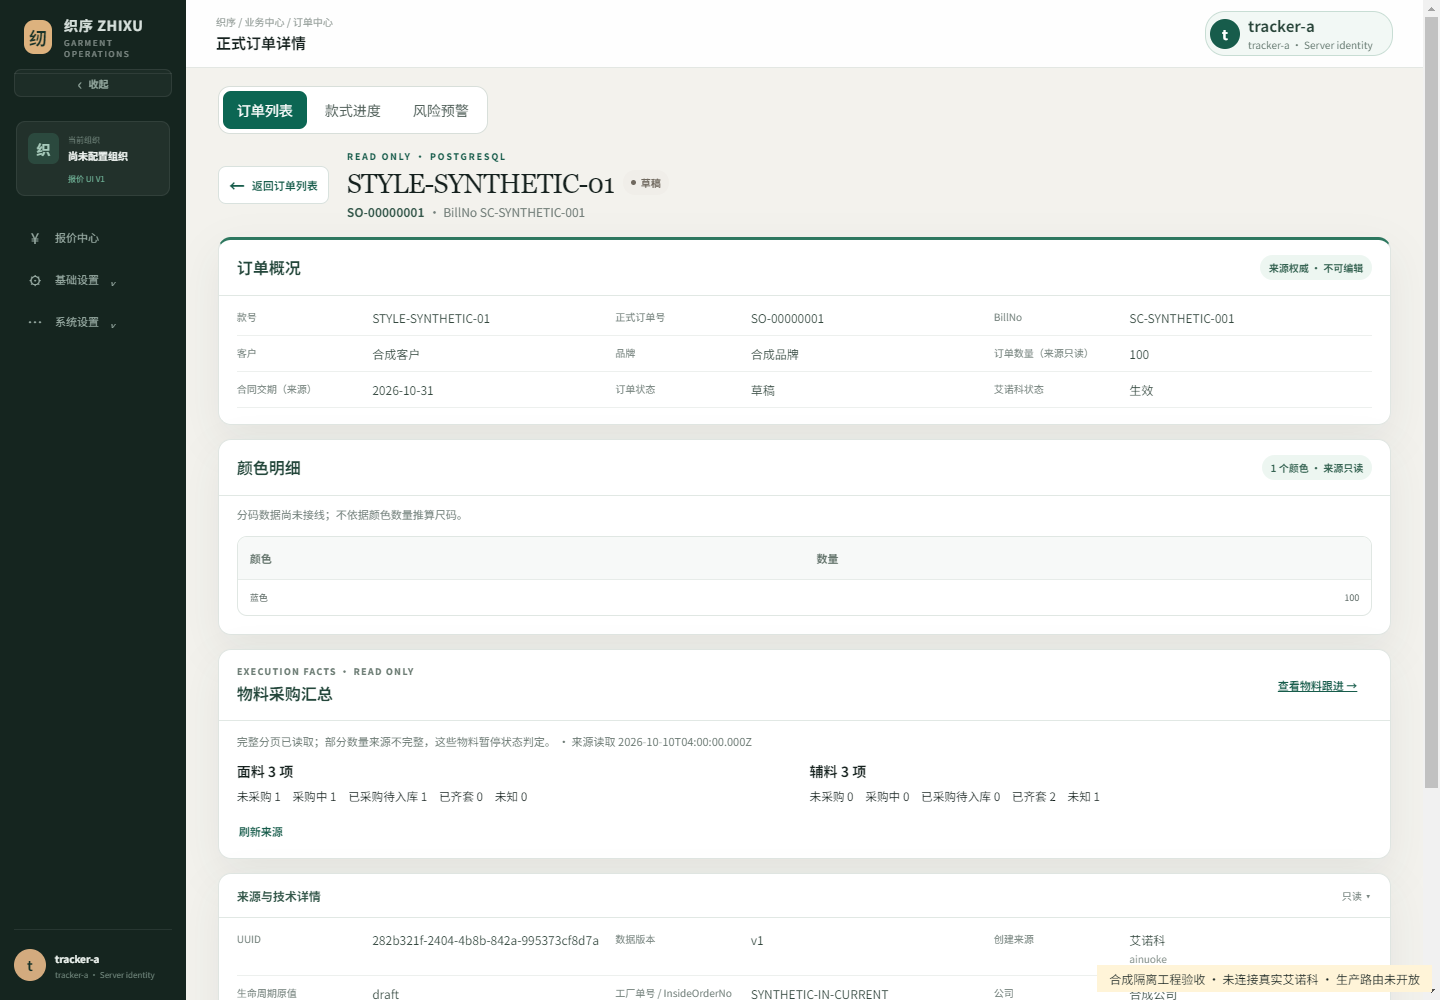
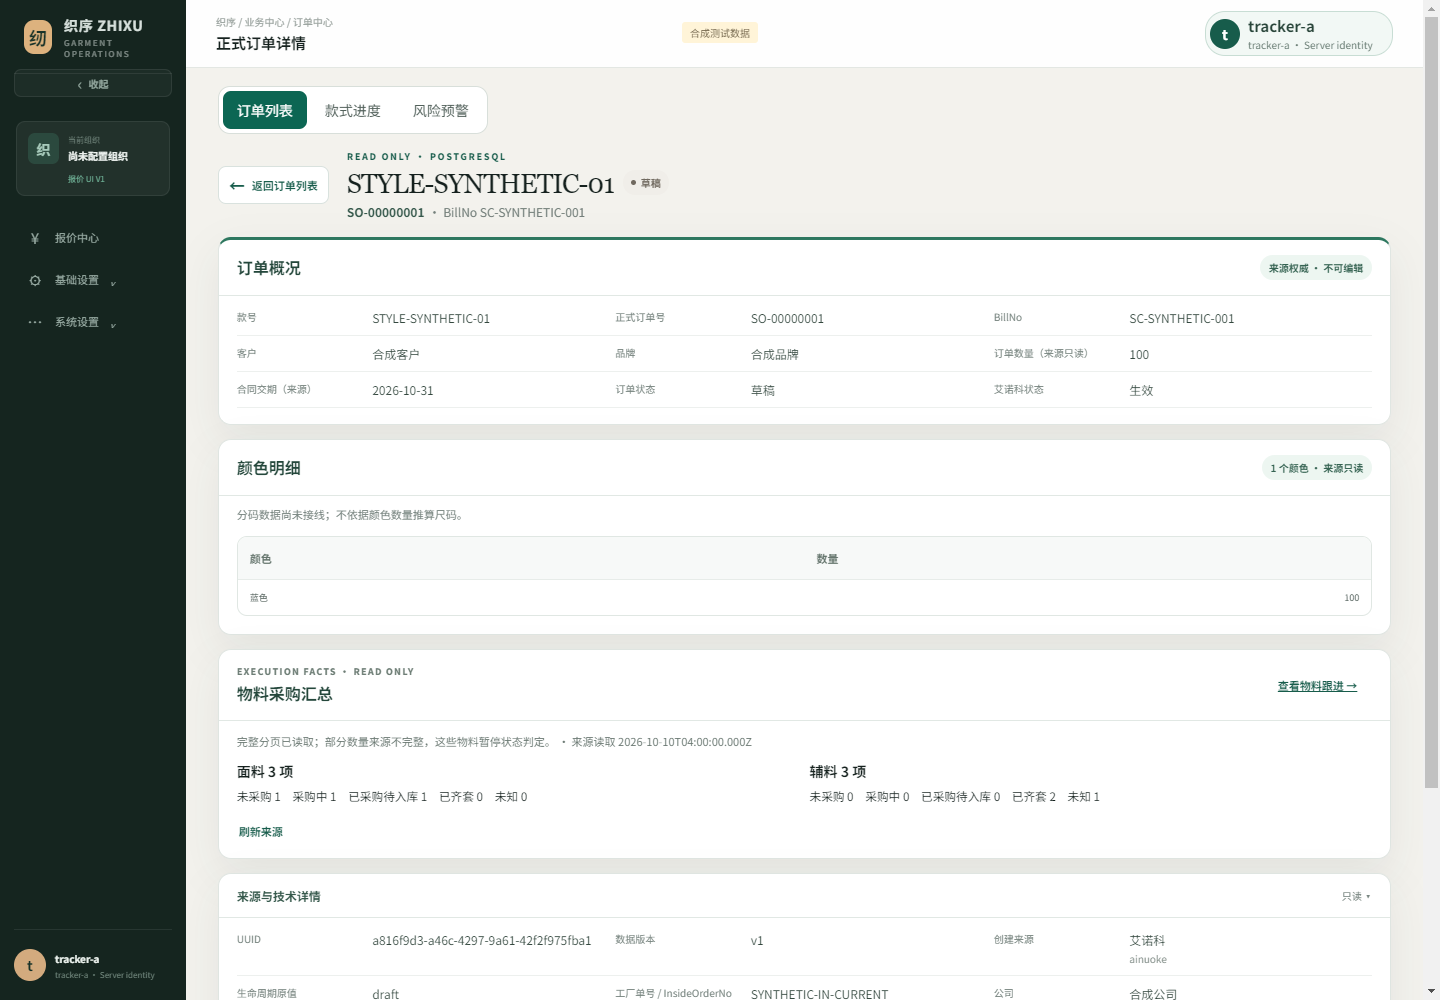
fix(order): align readonly Control Tower and verify responsive display

Changed region(s): [[0.75, 0.961, 1.0, 0.992], [0.25, 0.93, 0.4062, 0.961], [0.4688, 0.0, 0.5312, 0.062]]

diff --git a/features/style-progress/components/style-progress-server-page.tsx b/features/style-progress/components/style-progress-server-page.tsx
@@ -8,7 +8,7 @@ import { ReadOnlyMaterialControlTower } from './material-control-tower-read-only
 import { OrderCenterNavigation } from './order-center-navigation';
 function MaterialBody({id}:{id:string}) {
   const state=useOrderMaterial(id);const route=orderMaterialNavigation(id)!;
-  return <><PageHeader eyebrow="SERVER · READ ONLY" title={state.model?.progress.order.styleNo||'款式物料跟进'} description={`合同 ${state.model?.progress.order.salesContractNo??'—'} · 正式订单 ${id}`} back={<a className="qc-button qc-button-secondary" href={route.returnHref}>返回订单详情</a>} actions={<button className="qc-button qc-button-secondary" onClick={state.reload}>刷新来源</button>}/>
+  return <><PageHeader eyebrow="SERVER · READ ONLY" title={state.model?.progress.order.styleNo||'款式物料跟进'} description={`合同 ${state.model?.progress.order.salesContractNo??'—'} · 来源只读`} back={<a className="qc-button qc-button-secondary" href={route.returnHref}>返回订单详情</a>} actions={<button className="qc-button qc-button-secondary" onClick={state.reload}>刷新来源</button>}/>
     <p data-server-sales-order-id={id}>合同 <strong>{state.model?.progress.order.salesContractNo??'—'}</strong> · 来源只读</p>
     {state.model?.provenance==='synthetic'&&<AlertBanner tone="warning" title="合成隔离验收数据">不是实时艾诺科同步记录。</AlertBanner>}
     {state.loading?<p>读取可信物料来源…</p>:state.error?<p role="alert">{state.error}</p>:state.model&&<ReadOnlyMaterialControlTower view={state.model.progress}/>}</>;

diff --git a/features/ainuoke-material-progress/integration-preview/main.tsx b/features/ainuoke-material-progress/integration-preview/main.tsx
@@ -10,5 +10,6 @@ import '@/app/quote-center/quote-center.css';
 import '@/app/order-center/order-center.css';
 import '@/app/order-center/style-progress/style-progress.css';
 import '@/app/foundation.css';
+import './preview.css';
 const page=location.pathname.includes('/style-progress/detail')?<ServerStyleProgressDetailPage/>:location.pathname.includes('/server-detail')?<ServerSalesOrderDetailPage executionOnly/>:<ServerOrderCenterPage/>;
-createRoot(document.getElementById('root')!).render(<ServerSessionProvider><TrustedPermissionProvider><div style={{position:'fixed',right:8,bottom:8,zIndex:1000,maxWidth:'calc(100vw - 16px)',background:'#fff4d8',padding:'5px 12px',fontSize:12}}>合成隔离工程验收 · 未连接真实艾诺科 · 生产路由未开放</div>{page}</TrustedPermissionProvider></ServerSessionProvider>);
+createRoot(document.getElementById('root')!).render(<ServerSessionProvider><TrustedPermissionProvider><div title="隔离验收；未连接真实艾诺科，生产路由未开放" className="order-integration-synthetic-notice">合成测试数据</div>{page}</TrustedPermissionProvider></ServerSessionProvider>);

diff --git a/app/order-center/style-progress/style-progress.css b/app/order-center/style-progress/style-progress.css
@@ -165,3 +165,12 @@
 .sp-server-summary { display:grid; gap:10px; grid-template-columns:1fr 1fr; }
 .sp-server-summary section { display:grid; gap:6px; }
 @media(max-width:640px) { .sp-server-summary { grid-template-columns:1fr; } .sp-server-material .sp-v4-detail-table { min-width:680px; } .sp-server-material .sp-v4-material-head { flex-wrap:wrap; } }
+
+/* Source-only display reuses Control Tower shells with no empty planner columns. */
+.sp-server-material .sp-v4-filter { grid-template-columns: minmax(240px, 1fr) auto; }
+.sp-server-material .sp-v4-material-head { grid-template-columns: minmax(0, 1fr) auto; }
+.sp-server-material .sp-v4-material-body section > h3 { margin: 13px 15px 8px; color: #254038; font-size: 15px; }
+.sp-server-material .sp-v4-material-body section > h4 { margin: 12px 15px 8px; color: #40544c; font-size: 12px; }
+@media (max-width: 600px) {
+  .sp-server-material .sp-v4-filter { grid-template-columns: 1fr; }
+}

diff --git a/features/ainuoke-material-progress/integration-preview/preview.css b/features/ainuoke-material-progress/integration-preview/preview.css
@@ -1,0 +1,3 @@
+/* Test-environment marker only; does not occupy or intercept the original UI. */
+.order-integration-synthetic-notice { position: fixed; z-index: 1000; top: 22px; left: 50%; transform: translateX(-50%); padding: 3px 8px; border-radius: 3px; background: #fff4d8; color: #76694f; font-size: 10px; pointer-events: none; }
+@media (max-width: 599px) { .order-integration-synthetic-notice { top: 18px; right: 70px; left: auto; transform: none; } }

diff --git a/docs/tasks/active/evidence/order-material-p6-restoration/README.md b/docs/tasks/active/evidence/order-material-p6-restoration/README.md
@@ -1,0 +1,44 @@
+# PR #92 原版界面恢复证据（2026-10-11）
+
+**用户人工 UI 验收 PENDING。** 全部截图为合成订单、合成 session 用户和临时 PostgreSQL 数据，不是实时艾诺科记录；未访问真实 511 张订单。原夜间截图的自动化结果不能代表用户视觉验收。
+
+## P6 要求逐项对照
+
+当前可读取的附件中没有 P6 图像，以下对照来自用户明确列出的 P6 要求及原 ServerOrderCenterPage/Toolbar/DataTable/CSS；不声称像素一致。
+
+| P6 认可基准 | 修复证据 |
+| --- | --- |
+| 搜索、查询、生命周期、来源、排序紧凑横排 | 1440/1280 toolbar 为 flex/row，高 65px；所有控件纵向中心相同，修复前为 block/412px |
+| 桌面只显示一张订单表格 | 原 DataTable 数量为 1；桌面 responsive-record-list 为 display:none |
+| 表格铺满主要内容 | 表格与白色卡片宽度仅差 2px 边框；没有第二套列表 |
+| 绿色侧栏、暖灰背景、白色容器 | 复用原正式 CSS 与 AppShell；正式列表组件和列表 CSS 未重写 |
+| 390 使用原响应式移动展示 | records 为 grid，桌面表格隐藏；根页面无横向溢出 |
+| 511 与 2 张订单的数据差异 | 仅保留 2 张合成订单；未接触真实数据，也未把数量差异当作 UI 问题 |
+
+## 最终截图
+
+| 页面 | 1440 | 1280 | 390 |
+| --- | --- | --- | --- |
+| 原正式订单列表 | [桌面](list-1440.png) | [桌面](list-1280.png) | [移动](list-390.png) |
+| 精简订单详情 | [桌面](order-1440.png) | [桌面](order-1280.png) | [移动](order-390.png) |
+| 原 Control Tower 只读分支 | [桌面](material-1440.png) | [桌面](material-1280.png) | [移动](material-390.png) |
+
+附加：[展开技术详情](technical-1440.png)、[移动端底部折叠入口](order-bottom-390.png)、[移动采购来源金额](material-prices-390.png)。[修复前失败截图](before-1440.png) 保留为根因证据。
+
+[修复前 computed styles](before-computed-styles.json) / [最终三页面三宽度 metrics](computed-styles.json)。技术详情关闭时 Chromium 仍可返回内部矩形高度，实际 checkVisibility=false 且正文不含隐藏事实；测试展开后验证 UUID、版本、更新时间，再折叠。不能单凭矩形高度推断是否显示。
+
+## 硬验收与限制
+
+真实私有 Chromium 7/7、115 断言、0 skipped；桌面单表格、移动布局、详情 3/1 列、默认折叠、颜色表两列完整、无标题重叠和页面横向溢出。物料搜索、展开事件、采购来源单价/金额和精确 UUID 返回通过。仅表格内部可横向滚动。
+
+分码不在当前正式 DTO 中，页面明确显示尚未接线；不由颜色数量推算尺码。采购来源价格可见，销售价/工价/Quote 成本/利润不进入 Material DTO。旧 Order/Quote 金额 GET 暴露仍存在，独立权限 Gate 待批准，不能由本轮测试声明生产安全。
+
+浏览器与 HTTP 仅使用本轮随机隔离 PG16、动态 loopback、私有 profile；无 Browser 业务存储写入或真实艾诺科请求，未触及 18443/18444。
+
+## 人工复验（最多五步）
+
+1. 在本任务工作树运行 `npx tsx features/ainuoke-material-progress/integration-preview/demo.ts`，使用其输出的临时地址与合成账号，打开独立浏览器 profile。
+2. 以 1440、1280 检查原工具栏横排、只有一张订单表格、绿色侧栏及白色容器；以 390 检查原移动记录且无页面横向溢出。
+3. 打开合成订单：检查基本信息、颜色、物料摘要；展开/折叠「来源与技术详情」，确认技术字段默认隐藏。
+4. 进入物料跟进，搜索和展开采购/入库/出运/出库事件，移动端在明细表内部滚动查看来源单价/金额，然后返回同一订单。
+5. 结束后 Ctrl+C，让驱动清理它拥有的临时环境；反馈人工 UI 验收结果。不要操作真实业务环境。

diff --git a/docs/tasks/active/order-material-p6-restoration.md b/docs/tasks/active/order-material-p6-restoration.md
@@ -33,3 +33,15 @@ Initial detail run checked hidden content height and failed because Chromium kee
 Fixed only scoped display rules: bind original named header areas, reset two-column formal color table minimum width, add summary padding/disclosure arrow. Synthetic preview notice now floats outside layout, so it neither hides behind fixed sidebar nor creates an extra page scroller. Real final browser7/7,104assertions,0skipped; desktop overview3columns/mobile1, return/identity rectangles never overlap, both color columns fit, technical fields actually hidden/default and readable/expanded. Typecheck/lint0warnings PASS; full npm757/757 was run this round and remains recorded separately from the subsequent minor display fix.
 
 Desktop and390 detail screenshots now visually checked after the fix. **USER UI ACCEPTANCE PENDING**; no claim that user has approved them. Material display changes are isolated in the following Gate3 checkpoint.
+
+## Gate 3 — 原 Control Tower 展示恢复
+
+Gate2 本地 checkpoint `1164663d6fbadfca21159a5c2216a2b0216a470b` 已保存；当次 push 遇到 TLS close_notify，随后唯一只读核实显示远端仍为 `2e0960cd79b64d91591a3a58a533f144528fbfe3`，因此如实记为 REMOTE PENDING。继续同一已验证基线的独立本地阶段，无 force/reset/rebase。
+
+仅调整 Server 专属展示：原 Control Tower 搜索框不再保留 Browser 排期控件的空列；物料组标题、展开明细标题使用原页面字体和留白；合同替代默认大段 UUID 说明。原共用 MaterialReadCard/Table、分组/颜色规格、采购/入库/出运/出库事件、投影与状态算法保持原实现，固定 UUID 返回不变。Server 分支继续不挂载 Browser 导入、人工排期或写入。
+
+合成数据标识移到隔离预览页头的空白位置，独立 preview.css 只控制该标识，不覆盖正式组件样式。移动端实际滚动到页面底部，技术详情入口完整可见且不被标识遮挡；采购明细通过表格内部横向滚动读取单价和金额，页面本身不横向溢出。
+
+最终实际组件 Chromium：**7/7，115 断言，0 skipped**。含三个宽度的 CSS/computed styles、列表唯一性、网格/折叠可见性、标题非重叠、搜索区域、金额可读、UUID 返回、账号切换隔离、未连接、摘要/详情一致性、GET-only、无 CCT/Quote 请求、无 Browser 业务存储/IndexedDB、无非隔离来源请求或 JS 异常。新增断言未移除既有业务和安全断言。
+
+已检查最终桌面/移动截图，明确与此前被否决的截图区分。**USER UI ACCEPTANCE PENDING**；截图结构与 computed-style 检查不是用户批准。详见 [截图及 P6 要求逐项对照](evidence/order-material-p6-restoration/README.md)。

diff --git a/docs/AI_HANDOFF.md b/docs/AI_HANDOFF.md
@@ -2,7 +2,7 @@
 
 ## Active — PR #92 P6 UI restoration / user acceptance PENDING (2026-10-11)
 
-User rejected the prior night visual result. Real computed-style red test proves the isolated entry omitted foundation.css: desktop toolbar block/412px and both table+mobile records visible. Original missing CSS restored and computed-style/list regression7/7,71assertions PASS; compact detail/technical disclosure now verified with non-overlap/color-width checks; user UI acceptance still PENDING; no business/API/schema/security-policy change. [Current repair evidence](tasks/active/order-material-p6-restoration.md). Existing inherited Gate1 dirty remains untouched. #92 Draft; production routes/real Source and commercial permission repair remain pending.
+User rejected the prior night visual result. Real computed-style red test proves the isolated entry omitted foundation.css: desktop toolbar block/412px and both table+mobile records visible. Original Foundation CSS restored, compact detail/default-collapsed technical facts and shared readonly Control Tower display verified by final Chromium7/7,115assertions at1440/1280/390; user UI acceptance still PENDING; no business/API/schema/security-policy change. [Current repair evidence](tasks/active/order-material-p6-restoration.md). Existing inherited Gate1 dirty remains untouched. #92 Draft; production routes/real Source and commercial permission repair remain pending.
 ## Active — PR #92 isolated Order/Material integration (2026-10-11)
 
 PR #91 is MERGED at fcf36e5eab6c78254f808c1cba38f3a63a66d4f8; #92 ordinary merge checkpoint d321e0700b97d007f812bd5333a4bb6d86f43640. Actual order list/detail → same material summary → shared readonly Control Tower → UUID return passed isolated session HTTP and private Chromium. Source78/78, HTTP/CCT/exposure audit19/19, UI7/7 with43 assertions, npm757/757 and quality builds PASS. **SECURITY GATE PENDING / SYNTHETIC UI ACCEPTANCE PENDING**: legacy commercial GET exposure is reproduced, not repaired; default Source capability and production route activation remain disabled. [Full checkpoints, remote receipt, evidence and manual driver](tasks/active/order-material-night-integration.md). Keep Draft; inherited order-material-read-gate1.md 30-line dirty remains unstaged with original hash. No Preview or real-data operation; only owned disposable PG16 was migrated and cleaned.
